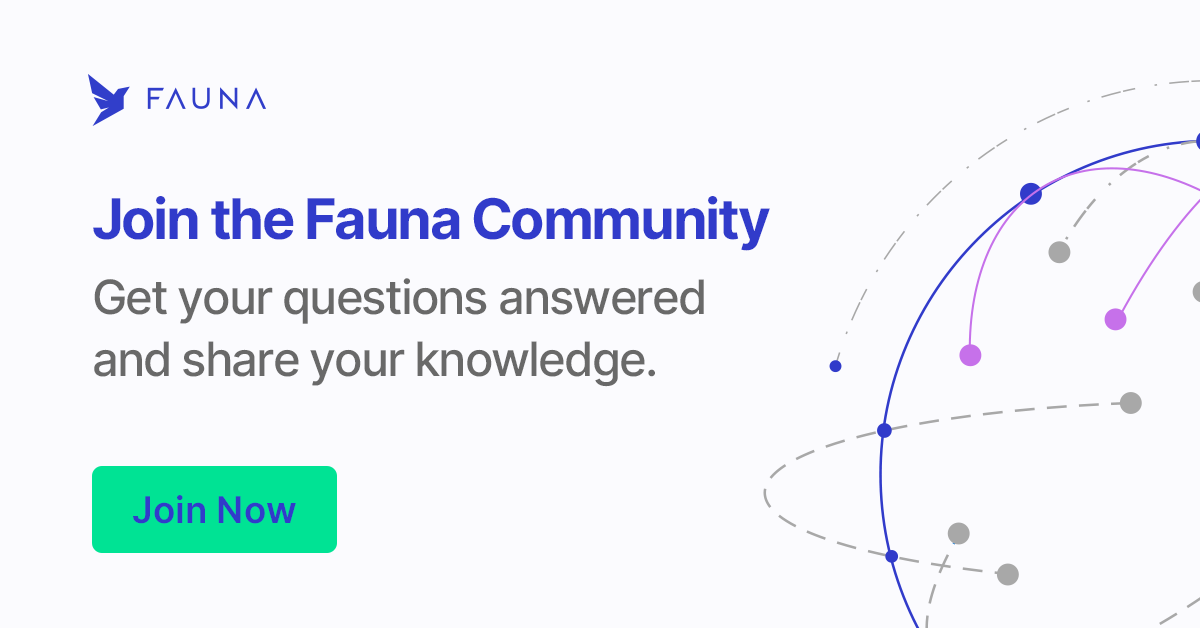
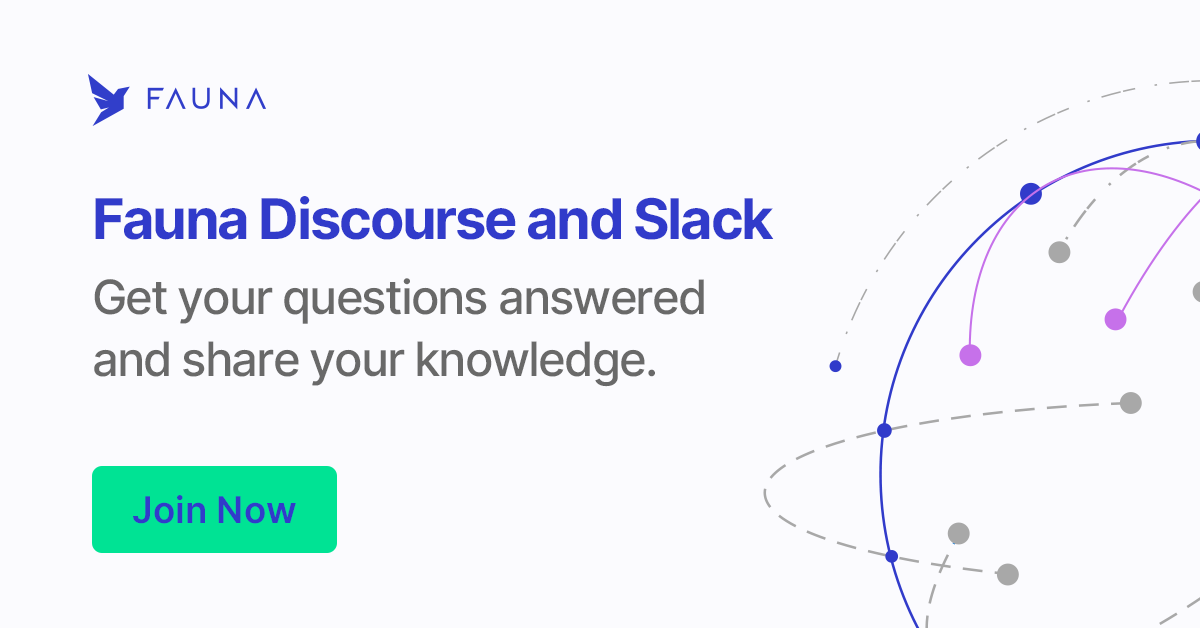
twitter card updated

Changed region(s): [[0.0617, 0.3025, 0.6475, 0.3933]]

diff --git a/public/index.html b/public/index.html
@@ -10,11 +10,11 @@
     <meta name="twitter:title" content="Join Fauna's Community Slack">
     <meta name="twitter:description" content="Join Fauna's Community Slack">
     <meta name="twitter:image" content="https://community.fauna.com/community-twitter-card.png">
-    <meta property="og:description" content="Join Fauna's Community Slack">
+    <meta property="og:description" content="Join the Fauna Community">
     <meta property="og:type" content="website" >
     <meta property="og:url" content="https://community.fauna.com">
     <meta property="og:image" content="https://community.fauna.com/community-twitter-card.png">
-    <meta property="og:title" content="Join Fauna's Community Slack">
+    <meta property="og:title" content="Join the Fauna Community">
 
     <title>Join Fauna's Community Slack</title>
     <link rel="stylesheet" href="https://use.typekit.net/gep4mwn.css">
